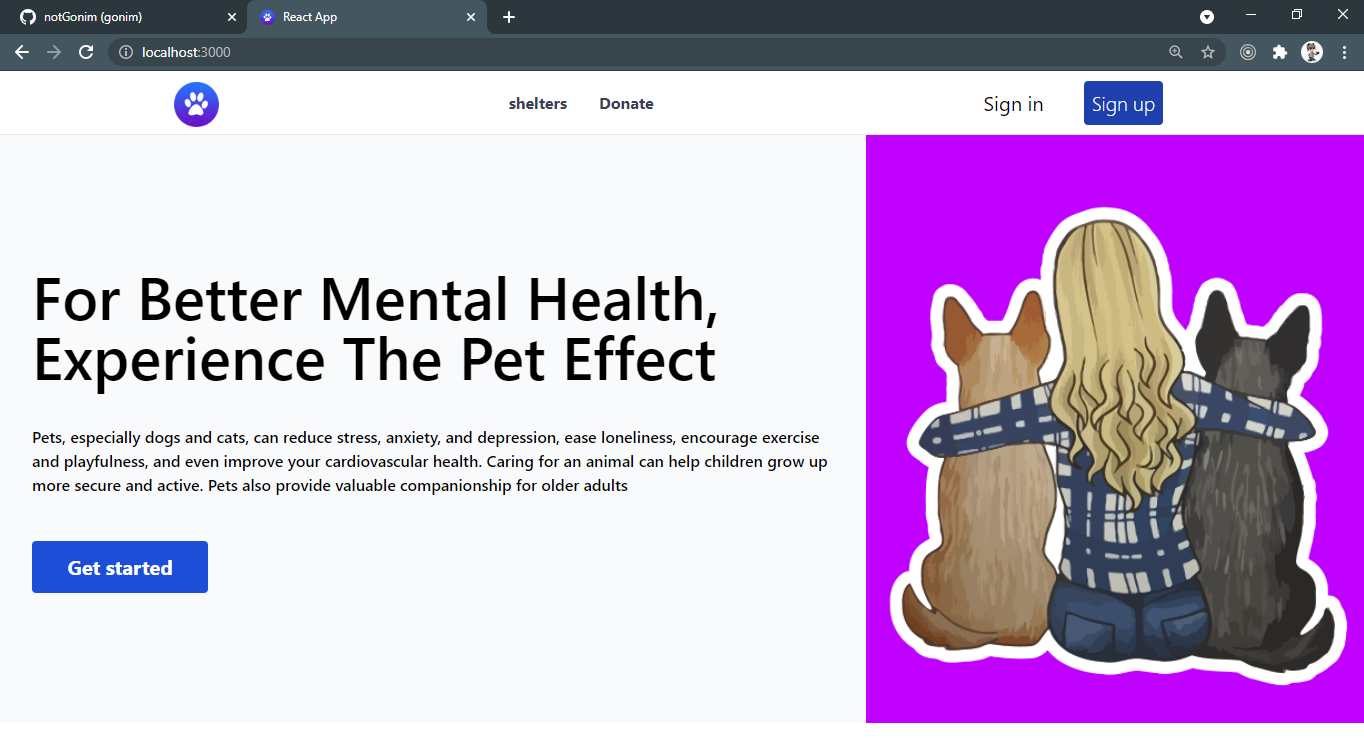
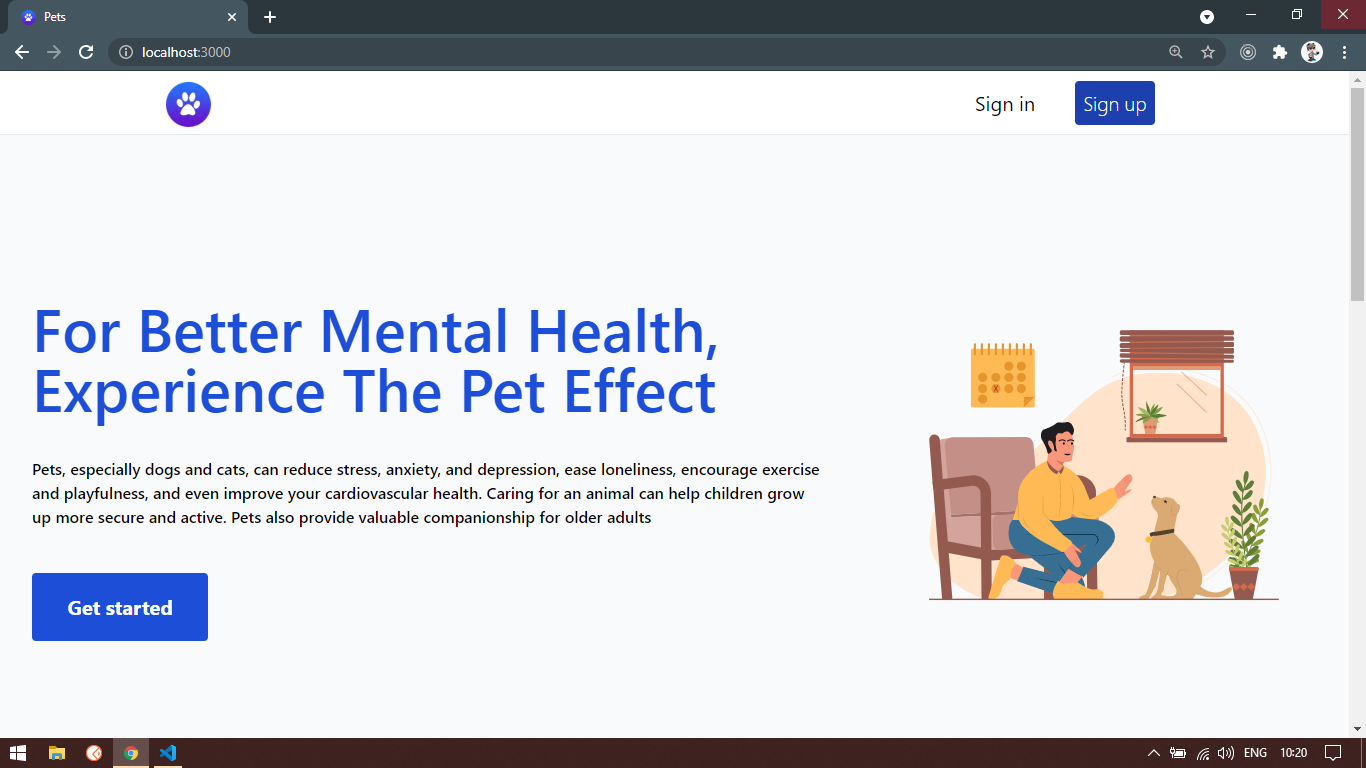
ADDED scrennshots

diff --git a/src/pages/LandPage.js b/src/pages/LandPage.js
@@ -4,14 +4,13 @@ import Hero from '../components/hero/hero'
 import Shelters from '../components/shelters/shelters.component'
 import Donate from '../components/donate/donate.component'
 import Footer from '../components/footer/footer.component'
-import { BrowserRouter as Router, Route, Switch } from "react-router-dom";
 
 
 export default function LandPage() {
 
 
     useEffect(() => {
-        document.title = 'HomePage - Pets'
+        document.title = 'Pets'
     }, [])
 
 
